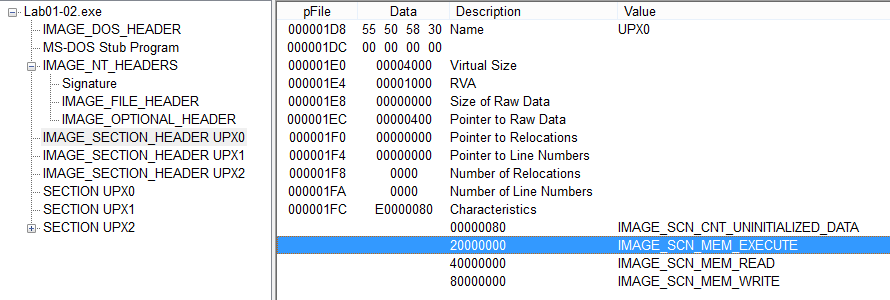
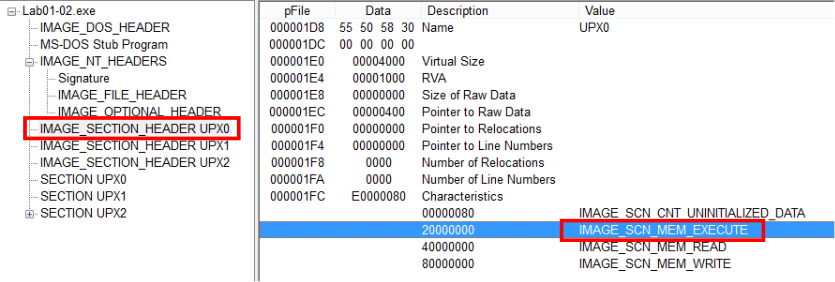
Lab 1-2

diff --git a/_posts/2017-05-14-practical-malware-analysis-lab-1-2.md b/_posts/2017-05-14-practical-malware-analysis-lab-1-2.md
@@ -8,7 +8,7 @@ show_social: true
 comments: true
 ---
 
-This is a walkthrough of the Lab 1-2 from the book _Practical Malware Analysis_: basic static malware analysis techniques are applied to the sample `Lab01-02.exe`. This malware sample was packed with UPX.
+This is a walkthrough of the Lab 1-2 from the book _Practical Malware Analysis_. The sample under analysis, `Lab01-02.exe`, has been packed so we will need to unpack it before performing static analysis.
 
 <!--more-->
 
@@ -22,8 +22,6 @@ Let's start!
 > ## 1) Upload the Lab01-02.exe file to VirusTotal. Does it match any existing antivirus definitions?
 
 I will compute the hash first and then look for that hash on [VirusTotal](http://www.virustotal.com).
-
-**Lab01-02.exe**
 
 MD5 | 8363436878404da0ae3e46991e355b83
 SHA1 | 5a016facbcb77e2009a01ea5c67b39af209c3fcb
@@ -44,9 +42,7 @@ We can analyze the file with [PEiD](https://www.aldeid.com/wiki/PEiD) and see th
 
 ![PEiD](/media/pma/lab-01-02/packed_peid.png)
 
-Looking at the PE sections also reveals signs of packing.
-
-**Lab01-02.exe**
+Looking at the PE sections also reveals signs of packing:
 
 ![PE sections](/media/pma/lab-01-02/packed_sections.png)
 
@@ -56,9 +52,9 @@ UPX0 | 4000 | 0
 UPX1 | 1000 | 600
 UPX2 | 1000 | 200
 
-Sections names indicate that UPX packer was probably used; sections sizes in memory and on disk have suspicious values, for instance the `UPX0` section has a size of 0 bytes on disk whereas its size in memory is 0x4000 bytes.
+Sections sizes in memory and on disk have suspicious values, for instance the `UPX0` section has a size of 0 bytes on disk but its size in memory is 0x4000 bytes: this is a strong indication of packing. Sections names indicate that the UPX packer was probably used.
 
-Additionally, the `UPX0` section, the largest one, is flagged as executable: the original unpacked code probably belongs to here. Executable sections have the `IMAGE_SCN_MEM_EXECUTE` characteristic set. The following screenshots show that characteristic - first screenshot was taken from [PEview](http://wjradburn.com/software/PEview.zip), the second from [ExeinfoPE](http://exeinfo.pe.hu/):
+The `UPX0` section, the largest one, is flagged as executable: the original unpacked code probably belongs to here. Executable sections have the `IMAGE_SCN_MEM_EXECUTE` characteristic set. The following screenshots show that characteristic - the first screenshot taken from within [PEview](http://wjradburn.com/software/PEview.zip), the second from within [ExeinfoPE](http://exeinfo.pe.hu/):
 
 ![PEview showing executable section](/media/pma/lab-01-02/exec_section_peview.png)
 
@@ -120,8 +116,7 @@ exit
 InternetOpenA
 ```
 
-
-LoadLibrary , GetProcAddress , VirtualAlloc
+The imported functions `LoadLibrary` and `GetProcAddress` are two of the most commonly used functions: they let an executable load a DLL _at runtime_ and then access any function from that DLL. When `LoadLibrary` and `GetProcAddress` are used we can't tell just by static analysis which functions are going to be used by the malware since they won't appear in the Import Address Table (IAT).
 
 
 Let's try to unpack the sample with UPX:
@@ -144,7 +139,7 @@ Section | Virtual Size | Raw Size
 .rdata | 372 | 1000
 .data | 8C | 1000
 
-The unpacked executable contains much more meaningful strings:
+The unpacked executable now contains much more meaningful strings:
 
 ```
 C:\malwarelab> strings2 -nh Lab01-02.exe.unpacked
@@ -211,19 +206,17 @@ http://www.malwareanalysisbook.com
 Internet Explorer 8.0
 ```
 
-VirusTotal is reporting the unpacked sample as malicious too:
-
-![VirusTotal Lab01-02.exe](/media/pma/lab-01-02/unpacked_virustotal.png)
-
-* [Lab01-02.exe.unpacked](https://www.virustotal.com/en/file/8bcbe24949951d8aae6018b87b5ca799efe47aeb623e6e5d3665814c6d59aeae/analysis/)
-
 These are the hashes of the unpacked executable:
-
-**Lab01-02.exe.unpacked**
 
 MD5 | ae4ca70697df5506bc610172cfc288e7
 SHA1 | 31e8a82e497058ff14049cf283b337ec51504819
 SHA256 | 8bcbe24949951d8aae6018b87b5ca799efe47aeb623e6e5d3665814c6d59aeae
+
+I used the hashes to perform a search on VirusTotal. The unpacked sample is reported as malicious:
+
+![VirusTotal Lab01-02.exe](/media/pma/lab-01-02/unpacked_virustotal.png)
+
+* [VirusTotal report of Lab01-02.exe.unpacked](https://www.virustotal.com/en/file/8bcbe24949951d8aae6018b87b5ca799efe47aeb623e6e5d3665814c6d59aeae/analysis/)
 
 
 > ## 3) Do any imports hint at this program’s functionality? If so, which imports are they and what do they tell you?
@@ -240,17 +233,17 @@ OpenSCManager
 StartServiceCtrlDispatcher
 ```
 
-This is an indication that the malware tries to install a service, a common persistence mechanism. Reading the strings included in the sample we can spot a suspicious `Malservice` which sounds like the service name. I get a confirmation of this by checking with IDA:
+This is an indication that the malware tries to install a service, a common persistence mechanism. Examining the strings included in the sample we can spot a suspicious `Malservice` which seems to be a plausible service name. I get a confirmation of this by checking with IDA:
 
 ![CreateService with IDA Pro](/media/pma/lab-01-02/service_ida.png)
 
-The malware imports two interesting functions from `WININET.dll`: `InternetOpen` and `InternetOpenUrl`. The string `http://www.malwareanalysisbook.com` is a strong indication that the sample tries to open that URL. A quick check with IDA confirms this hypothesis and also reveals that the malware is using the User-Agent `Internet Explorer 8.0`, a detail that can be used to further refine a network-based indicator.
+The malware also imports two interesting functions from `WININET.dll`, a library for performing high-level networking functions: `InternetOpen` and `InternetOpenUrl`. The string `http://www.malwareanalysisbook.com` is a significant clue that the sample is trying to open that URL using those functions. A quick check with IDA confirms this hypothesis and also reveals that the malware is connecting to that URL using the User-Agent `Internet Explorer 8.0`; this information is useful to detail a network-based indicator.
 
 ![InternetOpenUrl with IDA Pro](/media/pma/lab-01-02/internet_ida.png)
 
-Lastly, the functions `OpenMutex` and `CreateMutex` imported from `KERNEL32.dll` let me think that this sample is checking that a mutex exists as an infection mark. The string `HGL345` appears to be a good name for a mutex. IDA confirms this idea:
+Lastly, the functions `OpenMutex` and `CreateMutex` imported from `KERNEL32.dll` let me think that this sample is checking if a mutex exists - a mutex is often used as an infection mark. The string `HGL345` sounds like a good name for a mutex, and IDA confirms this idea:
 
-![Mutex with IDA Pro](/media/pma/lab-01-02/internet_ida.png)
+![Mutex with IDA Pro](/media/pma/lab-01-02/mutex_ida.png)
 
 
 > ## 5) What host- or network-based indicators could be used to identify this malware on infected machines?
